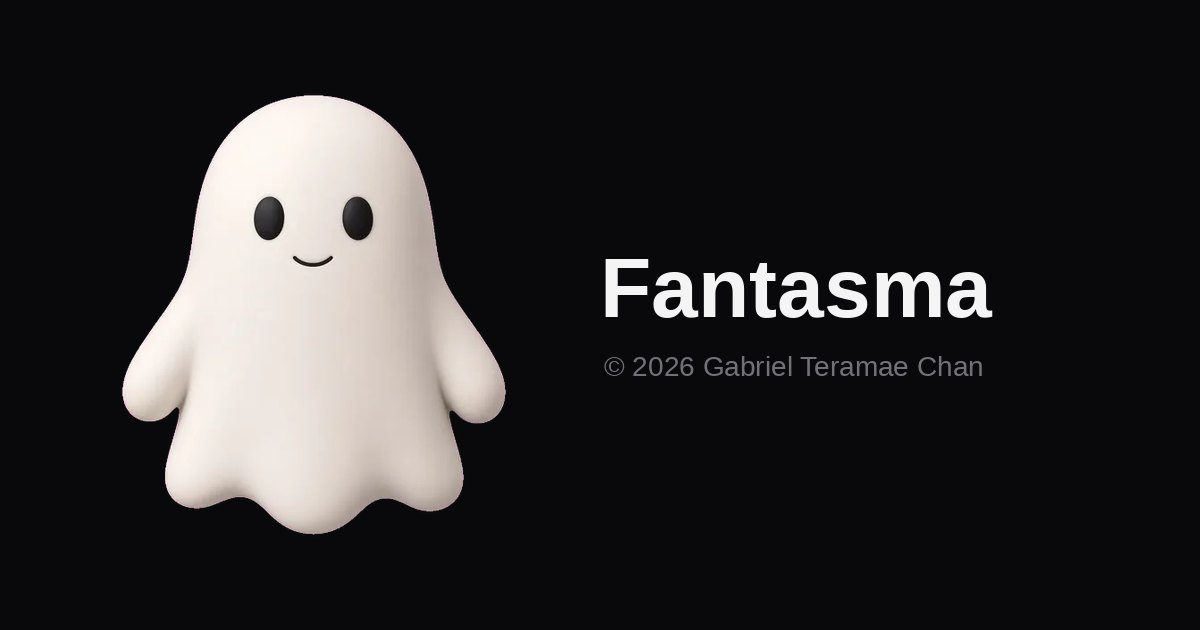
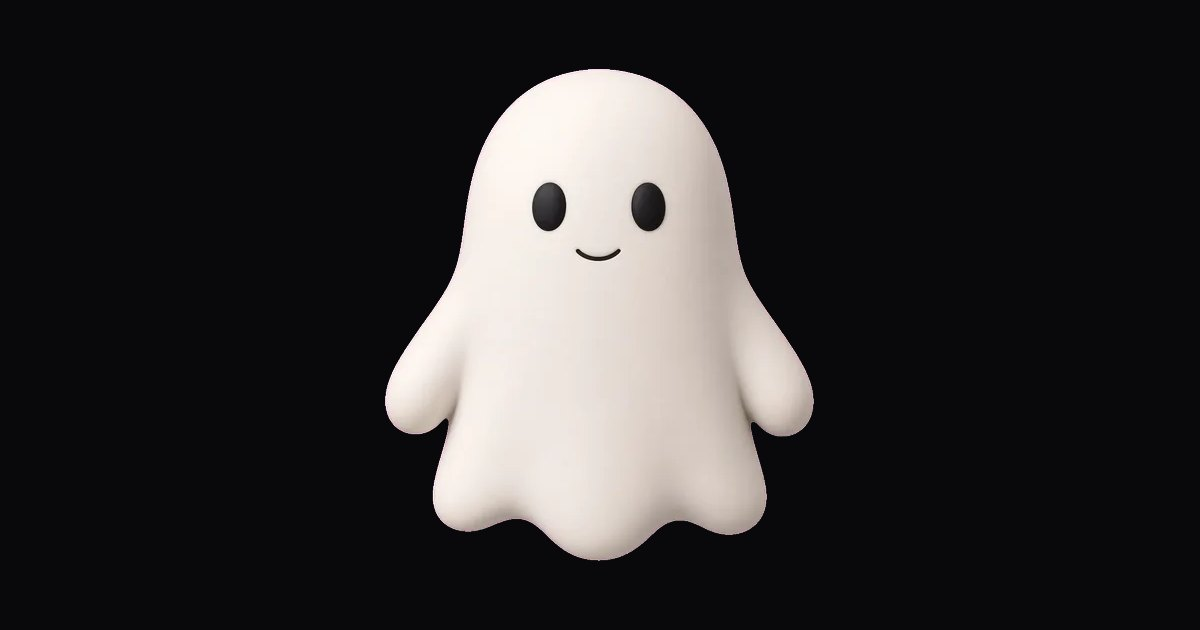
Tira o nome do app da interface.
O mascote continua, mas o produto ainda não tem nome.

diff --git a/src/routes/login.tsx b/src/routes/login.tsx
@@ -54,7 +54,7 @@ function Login() {
         const { error: signUpError } = await authClient.signUp.email({
           email: cleanEmail,
           password,
-          name: cleanEmail.split("@")[0] || "Fantasma",
+          name: cleanEmail.split("@")[0] || "Você",
         });
         if (signUpError) throw new Error("auth");
       } else {
@@ -76,8 +76,7 @@ function Login() {
       <div className="login-orb login-orb-a" aria-hidden="true" />
       <div className="login-orb login-orb-b" aria-hidden="true" />
       <div className="login-rise relative mx-auto flex min-h-dvh w-full max-w-sm flex-col justify-center px-5 py-10">
-        <p className="text-xs font-medium tracking-[0.18em] text-accent uppercase">Fantasma</p>
-        <h1 className="mt-6 text-3xl font-semibold tracking-tight">
+        <h1 className="text-3xl font-semibold tracking-tight">
           {mode === "signin" ? "Bem-vindo de volta" : "Crie sua conta"}
         </h1>
         <p className="mt-2 text-sm text-muted">

diff --git a/src/routes/configuracoes.tsx b/src/routes/configuracoes.tsx
@@ -69,16 +69,16 @@ function Configuracoes() {
             ))}
           </div>
         </SettingRow>
-        <SettingRow title="Fantasma fala" hint="Balões de texto quando ele reage.">
+        <SettingRow title="Ele fala" hint="Balões de texto quando ele reage.">
           <Switch
-            label="Fantasma fala"
+            label="Ele fala"
             checked={prefs?.dinoTalks ?? true}
             onCheckedChange={(v) => void patch({ dinoTalks: v })}
           />
         </SettingRow>
-        <SettingRow title="Fantasma compacto" hint="Menor no canto, melhor no celular.">
+        <SettingRow title="Tamanho compacto" hint="Menor no canto, melhor no celular.">
           <Switch
-            label="Fantasma compacto"
+            label="Tamanho compacto"
             checked={prefs?.dinoSmall ?? false}
             onCheckedChange={(v) => void patch({ dinoSmall: v })}
           />

diff --git a/src/routes/index.tsx b/src/routes/index.tsx
@@ -551,8 +551,7 @@ function TaskBoard() {
       <div className="mx-auto flex min-h-dvh w-full max-w-lg flex-col px-5 pt-10 pb-40 sm:pt-14">
         <header className="mb-6 flex items-start justify-between gap-3">
           <div>
-            <p className="text-xs font-medium tracking-[0.18em] text-accent uppercase">Fantasma</p>
-            <h1 className="mt-2 text-3xl font-semibold tracking-tight text-fg">{titles[tab]}</h1>
+            <h1 className="text-3xl font-semibold tracking-tight text-fg">{titles[tab]}</h1>
             <p className="mt-2 text-sm text-muted">
               {ready
                 ? remaining === 0

diff --git a/src/routes/notificacoes.tsx b/src/routes/notificacoes.tsx
@@ -45,9 +45,9 @@ function Notificacoes() {
             onCheckedChange={(v) => void patch({ notifyDone: v })}
           />
         </SettingRow>
-        <SettingRow title="Fantasma ocioso" hint="Se a lista parar, ele cochila e chama você.">
+        <SettingRow title="Quando ocioso" hint="Se a lista parar, ele cochila e chama você.">
           <Switch
-            label="Fantasma ocioso"
+            label="Quando ocioso"
             checked={prefs?.notifyDino ?? true}
             onCheckedChange={(v) => void patch({ notifyDino: v })}
           />

diff --git a/src/routes/ajuda.tsx b/src/routes/ajuda.tsx
@@ -33,7 +33,7 @@ const FAQS = [
 function Ajuda() {
   return (
     <AuthScreen title="Ajuda">
-      <p className="mb-4 text-sm text-muted">Fantasma em um minuto.</p>
+      <p className="mb-4 text-sm text-muted">Em um minuto.</p>
       <SettingGroup>
         {FAQS.map((item) => (
           <SettingRow key={item.title} title={item.title} hint={item.hint} />

diff --git a/src/routes/privacidade.tsx b/src/routes/privacidade.tsx
@@ -19,7 +19,7 @@ function Privacidade() {
       const url = URL.createObjectURL(blob);
       const a = document.createElement("a");
       a.href = url;
-      a.download = "fantasma.json";
+      a.download = "tarefas.json";
       a.click();
       URL.revokeObjectURL(url);
       setStatus("Arquivo baixado neste aparelho.");

diff --git a/src/routes/perfil.tsx b/src/routes/perfil.tsx
@@ -50,7 +50,7 @@ function Perfil() {
             {initial}
           </span>
         )}
-        <p className="text-sm text-muted">{user?.primaryEmail ?? "Conta Fantasma"}</p>
+        <p className="text-sm text-muted">{user?.primaryEmail ?? "Sua conta"}</p>
       </div>
 
       <SettingGroup>

diff --git a/src/routes/__root.tsx b/src/routes/__root.tsx
@@ -6,7 +6,7 @@ import { getPrefs } from "@/lib/prefs";
 import { applyTheme, readStoredTheme } from "@/lib/theme";
 import appCss from "../styles.css?url";
 
-const APP_NAME = "Fantasma";
+const APP_NAME = "Tarefas";
 
 export const Route = createRootRoute({
   head: () => ({

diff --git a/README.md b/README.md
@@ -1,4 +1,4 @@
-# 👻 Fantasma — React + TanStack Start
+# Lista de tarefas — React + TanStack Start
 
 ![React](https://img.shields.io/badge/React-19-61DAFB?style=flat&logo=react&logoColor=black)
 ![TypeScript](https://img.shields.io/badge/TypeScript-5.7-3178C6?style=flat&logo=typescript&logoColor=white)
@@ -50,7 +50,7 @@ Fluxo conferido com o app rodando (`npm run dev`), inclusive no tamanho de celul
 - Adicionar tarefa e ver o emoji ao lado do texto
 - Abrir a Agenda e marcar o dia
 - Trocar de aba na barra de baixo (Tarefas, Agenda, Feitas)
-- Fantasma do mesmo tamanho em todas as poses, inclusive cochilando
+- Mascote do mesmo tamanho em todas as poses, inclusive cochilando
 
 ## 🚀 Como rodar
 
